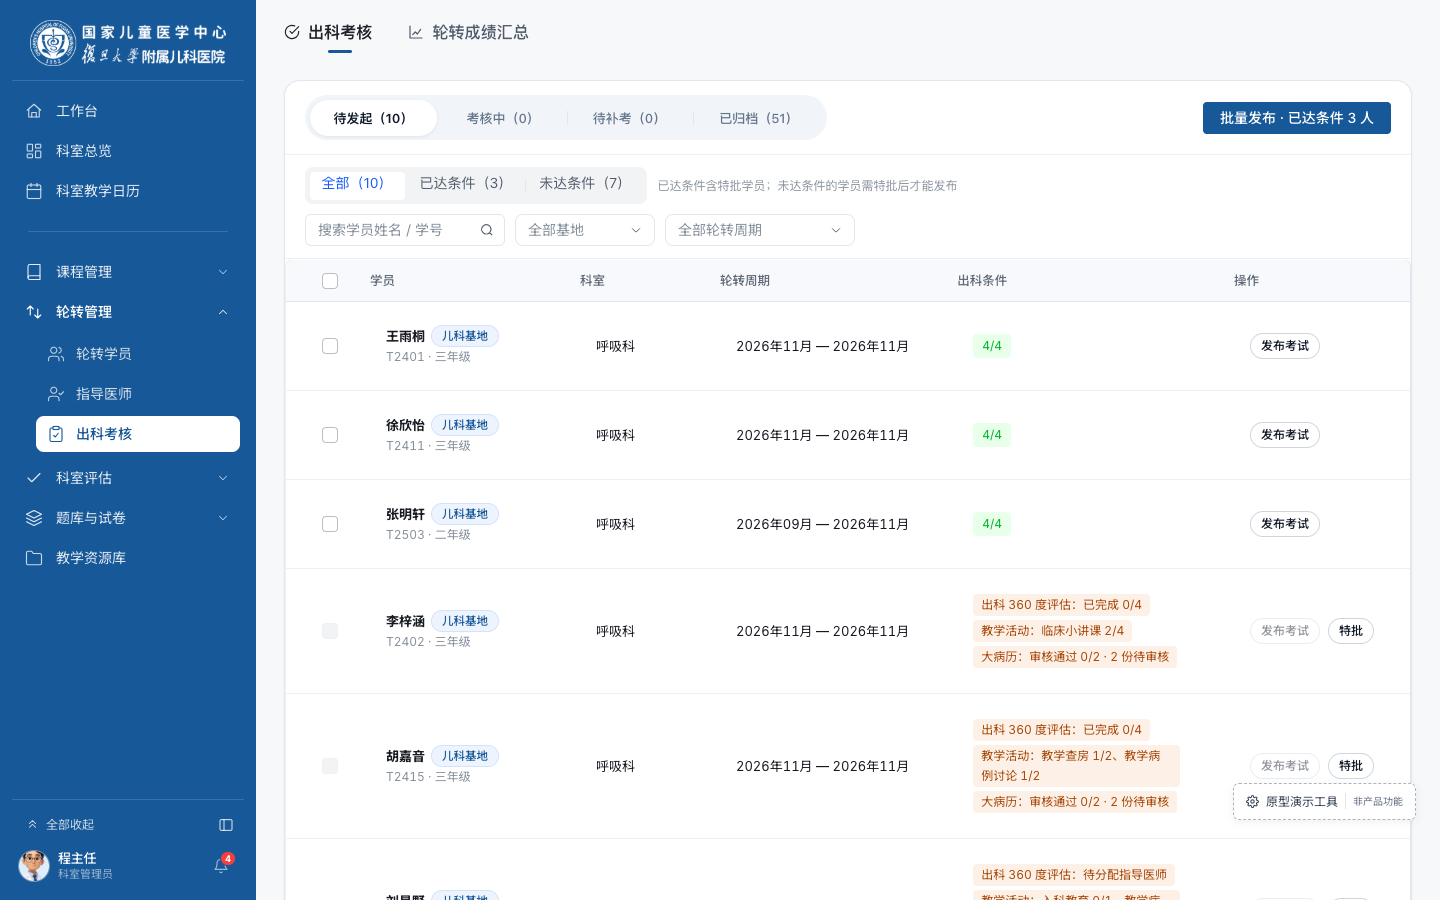
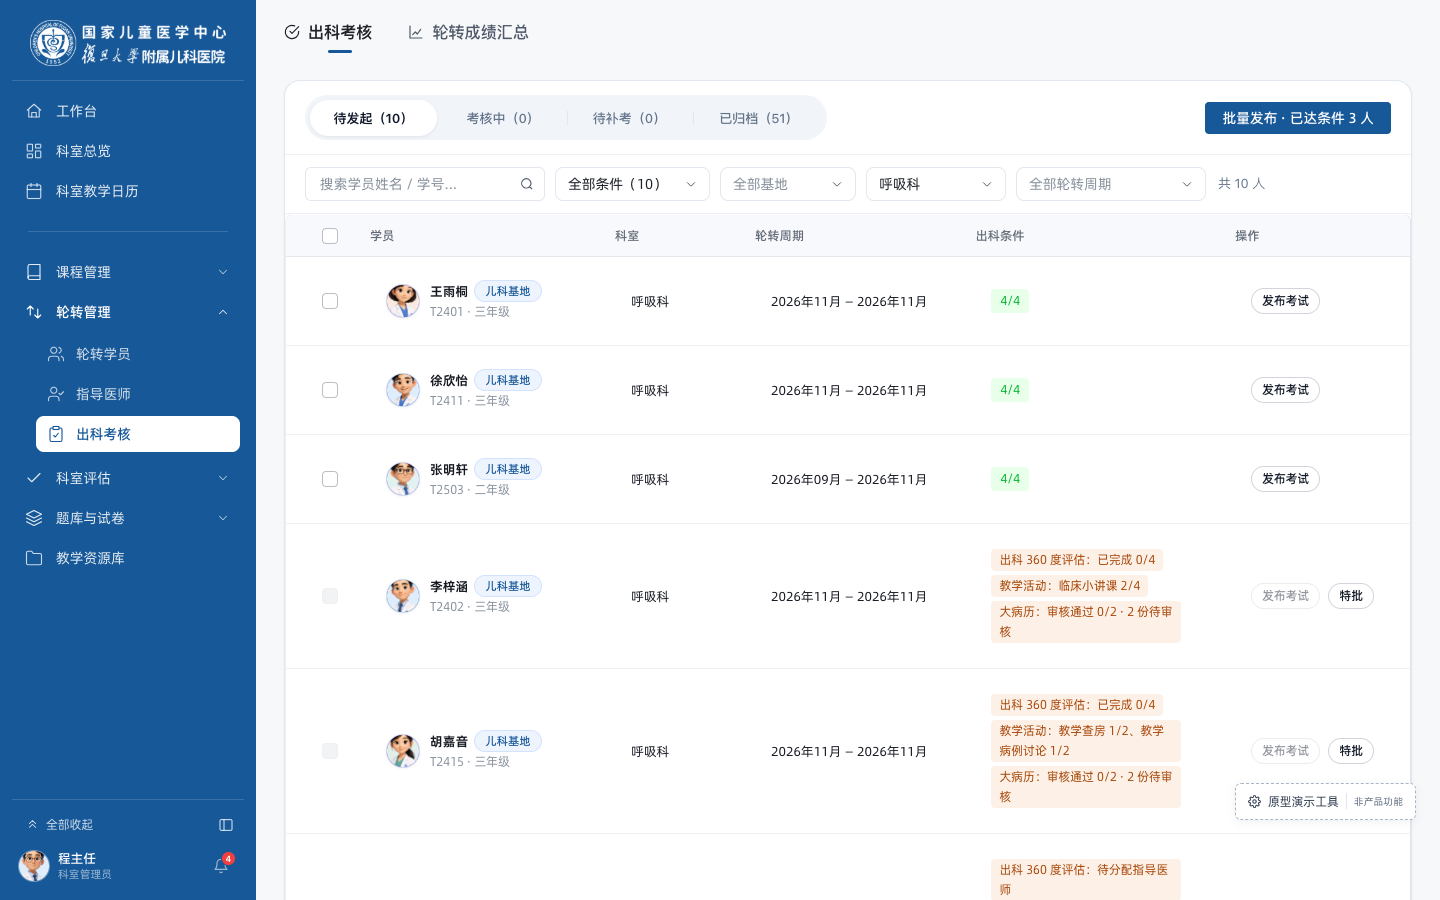
docs: 同步 2026-11-28 出科考核筛选栏统一与3D头像留痕

diff --git a/2026-11-28-修改前后对比.html b/2026-11-28-修改前后对比.html
@@ -41,13 +41,13 @@
 <header>
   <div style="margin-bottom:8px"><a href="index.html" style="color:#d0e7ff;font-size:13px;text-decoration:none;display:inline-flex;align-items:center;gap:4px">← 返回留痕总览（所有日期清单）</a></div>
   <h1>2026-11-28 · 修改前后对比</h1>
-  <div class="sub">共 <span id="index-total-count">2</span> 项修改记录 · 115 张真实入口截图 · PC 端 1440×900 · 点击顶部总清单锚点快速跳转至对应详情</div>
+  <div class="sub">共 <span id="index-total-count">3</span> 项修改记录 · 117 张真实入口截图 · PC 端 1440×900 · 点击顶部总清单锚点快速跳转至对应详情</div>
 </header>
 <main>
   <section id="change-index">
     <h2>修改记录总清单（索引）</h2>
     <div class="summary-row">
-      <div class="summary-badge"><strong>记录总数</strong>：<span id="index-visible-count">2</span> 项</div>
+      <div class="summary-badge"><strong>记录总数</strong>：<span id="index-visible-count">3</span> 项</div>
     </div>
     <div class="index-toolbar">
       <div class="index-chips" id="index-scope-chips">
@@ -83,6 +83,13 @@
           <td><span class="scope-tag">PC端</span></td>
           <td>全站 11 个角色工作台（常用服务 / 全部服务 → 抽屉与跳转页面）</td>
           <td><a href="../../shared/js/account-hub.js">shared/js/account-hub.js</a> + <a href="../PC端工作台隐藏卡片清单-20261128.md">隐藏卡片清单.md</a> · 分角色截图（113 张）</td>
+        </tr>
+        <tr data-scope="PC端">
+          <td>03</td>
+          <td><a href="#sec-03"><strong>出科考核 · 统一单行胶囊筛选栏、基地标签与 3D 卡通头像</strong></a></td>
+          <td><span class="scope-tag">PC端</span></td>
+          <td>科室管理员（<code>程主任.html?page=出科考核</code>）与基地管理员（<code>base-manager.html</code> / <code>郑老师.html</code> → 轮转任务与考核 → 出科考核）</td>
+          <td><a href="../../pages/轮转任务与考核/page.js">pages/轮转任务与考核/page.js</a> + <a href="../../pages/轮转任务与考核/page.css">pages/轮转任务与考核/page.css</a> · 图文对比（2 张）</td>
         </tr>
       </tbody>
     </table>
@@ -263,6 +270,31 @@
       <div style="border:1px solid #e5e9f0;border-radius:8px;overflow:hidden;background:#fafbfc"><a href="2026-11-28-对比截图/11-后台管理员(backend)/02-内容发布.png" target="_blank"><img loading="lazy" alt="backend - 内容发布" src="2026-11-28-对比截图/11-后台管理员(backend)/02-内容发布.png"></a><div style="padding:6px 10px;font-size:12px;color:#4e5969"><strong>02 · 内容发布</strong> <span style="color:#86909c">(跳转页面)</span></div></div>
       <div style="border:1px solid #e5e9f0;border-radius:8px;overflow:hidden;background:#fafbfc"><a href="2026-11-28-对比截图/11-后台管理员(backend)/03-公告配置.png" target="_blank"><img loading="lazy" alt="backend - 公告配置" src="2026-11-28-对比截图/11-后台管理员(backend)/03-公告配置.png"></a><div style="padding:6px 10px;font-size:12px;color:#4e5969"><strong>03 · 公告配置</strong> <span style="color:#86909c">(跳转页面)</span></div></div>
       <div style="border:1px solid #e5e9f0;border-radius:8px;overflow:hidden;background:#fafbfc"><a href="2026-11-28-对比截图/11-后台管理员(backend)/04-讨论区管理.png" target="_blank"><img loading="lazy" alt="backend - 讨论区管理" src="2026-11-28-对比截图/11-后台管理员(backend)/04-讨论区管理.png"></a><div style="padding:6px 10px;font-size:12px;color:#4e5969"><strong>04 · 讨论区管理</strong> <span style="color:#86909c">(跳转页面)</span></div></div>
+    </div>
+  </section>
+
+  <section id="sec-03">
+    <h2>03 · 出科考核 · 统一单行胶囊筛选栏、基地标签与 3D 卡通头像</h2>
+    <p>定位：科室管理员（<code>程主任.html?page=出科考核</code>）与基地管理员（<code>base-manager.html</code> / <code>郑老师.html</code> → 轮转任务与考核 → 出科考核）。实现文件：<a href="../../pages/轮转任务与考核/page.js">pages/轮转任务与考核/page.js</a>、<a href="../../pages/轮转任务与考核/page.css">pages/轮转任务与考核/page.css</a>。</p>
+    <div class="pair">
+      <div>
+        <h3>修改前 · 存在问题</h3>
+        <ul>
+          <li>待发起列表顶部存在黄色预警横条（“7 名学员 7 天内换科，尚未发起出科考核 · 只看这些学员”），占用首屏空间。</li>
+          <li>缺少学员姓名/学号搜索与轮转周期筛选，科室管理员与基地管理员筛选控件位置及数量不统一。</li>
+          <li>学员列缺少 3D 头像与所属基地标识，跨基地轮转学员（如儿外科基地轮转至呼吸科）无法直观区分。</li>
+        </ul>
+        <a href="2026-11-28-对比截图/出科考核-搜索筛选与基地标签-修改前.jpg" target="_blank"><img alt="修改前" src="2026-11-28-对比截图/出科考核-搜索筛选与基地标签-修改前.jpg"></a>
+      </div>
+      <div>
+        <h3>修改后 · 改动说明</h3>
+        <ul>
+          <li>移除待发起页签顶部的黄色预警条，列表结构更紧凑清晰。</li>
+          <li>参照「技能中心课程」单行胶囊筛选栏规范，统一科室管理员与基地管理员的筛选工具栏：<code>搜索学员姓名 / 学号</code> + <code>条件状态下拉</code> + <code>基地</code> + <code>科室</code> + <code>轮转周期</code> + <code>共 X 人</code> + <code>重置</code>，覆盖四个页签。</li>
+          <li>在四张出科考核表的「学员」列左侧同步加入 <code>34×34</code> 圆形 3D 卡通头像（<code>shared/assets/avatars/avatar_01~10.png</code> + 首字兜底），并展示基地胶囊标签（<code>儿科基地</code> 蓝底、<code>儿外科基地</code> 橙底）。</li>
+        </ul>
+        <a href="2026-11-28-对比截图/出科考核-搜索筛选与基地标签-修改后.png" target="_blank"><img alt="修改后" src="2026-11-28-对比截图/出科考核-搜索筛选与基地标签-修改后.png"></a>
+      </div>
     </div>
   </section>
 </main>

diff --git a/index.html b/index.html
@@ -147,7 +147,7 @@
     <div class="filter-group" id="date-filter-group">
       <span style="font-size:13px;color:var(--color-text-secondary);font-weight:500;margin-right:4px">日期快速切换：</span>
       <button type="button" class="filter-chip active" data-date="all">全部日期（11 天）</button>
-      <button type="button" class="filter-chip" data-date="2026-11-28">2026-11-28（最新 · 2 项）</button>
+      <button type="button" class="filter-chip" data-date="2026-11-28">2026-11-28（最新 · 3 项）</button>
       <button type="button" class="filter-chip" data-date="2026-11-27">2026-11-27（5 项）</button>
       <button type="button" class="filter-chip" data-date="2026-11-26">2026-11-26（1 项）</button>
       <button type="button" class="filter-chip" data-date="2026-11-23">2026-11-23（7 项）</button>
@@ -165,19 +165,19 @@
   <div class="days-stream" id="days-stream">
 
     <!-- 卡片: 2026-11-28 -->
-    <article class="day-card featured" data-date="2026-11-28" data-scope="PC端" data-keywords="PC端 轮转进度 轮转管理 搜索 筛选栏 技能中心课程 胶囊样式 3D卡通头像 avatar">
+    <article class="day-card featured" data-date="2026-11-28" data-scope="PC端" data-keywords="PC端 轮转进度 出科考核 轮转管理 搜索 筛选栏 技能中心课程 胶囊样式 3D卡通头像 avatar 基地标签 轮转周期">
       <div class="day-header">
         <div class="day-title-wrap">
           <div class="day-meta-row">
             <span class="date-badge">2026-11-28</span>
             <span class="tag tag-latest">最新</span>
           </div>
-          <h2 class="day-title">轮转进度 · 筛选栏对齐技能中心课程胶囊样式与 3D 卡通头像升级</h2>
-          <p class="day-desc">将轮转进度页筛选栏重构为「技能中心课程」千问胶囊几何（搜索框 300px 居左 + 36px 高 0.5px 边胶囊下拉 + 计数与重置按钮），并将学员列表头像升级为 3D 卡通头像资产。</p>
+          <h2 class="day-title">轮转进度 &amp; 出科考核胶囊筛选栏统一 + 3D 卡通头像 + 全角色工作台归档</h2>
+          <p class="day-desc">将轮转进度与出科考核筛选栏统一重构为「技能中心课程」单行胶囊样式并升级 3D 卡通头像；出科考核移除黄色预警条、新增基地标签并统一科室/基地管理员筛选控件；同步完成 PC 全 11 角色工作台卡片截图归档。</p>
         </div>
         <div class="day-actions">
           <a class="btn-primary" href="2026-11-28-修改前后对比.html">查看 11-28 留痕详情 →</a>
-          <span class="stat-summary">2 项修改 · 115 张截图</span>
+          <span class="stat-summary">3 项修改 · 117 张截图</span>
         </div>
       </div>
       <div class="items-overview">
@@ -190,6 +190,11 @@
           <a class="item-link" href="2026-11-28-修改前后对比.html#sec-02">
             <span class="item-num">02</span>
             <span class="item-name">PC 全 11 角色工作台 · 无效卡片隐藏与全量保留卡片分角色截图归档（113图）</span>
+            <span class="item-badge">PC端</span>
+          </a>
+          <a class="item-link" href="2026-11-28-修改前后对比.html#sec-03">
+            <span class="item-num">03</span>
+            <span class="item-name">出科考核 · 统一单行胶囊筛选栏、基地标签与 3D 卡通头像</span>
             <span class="item-badge">PC端</span>
           </a>
         </div>
